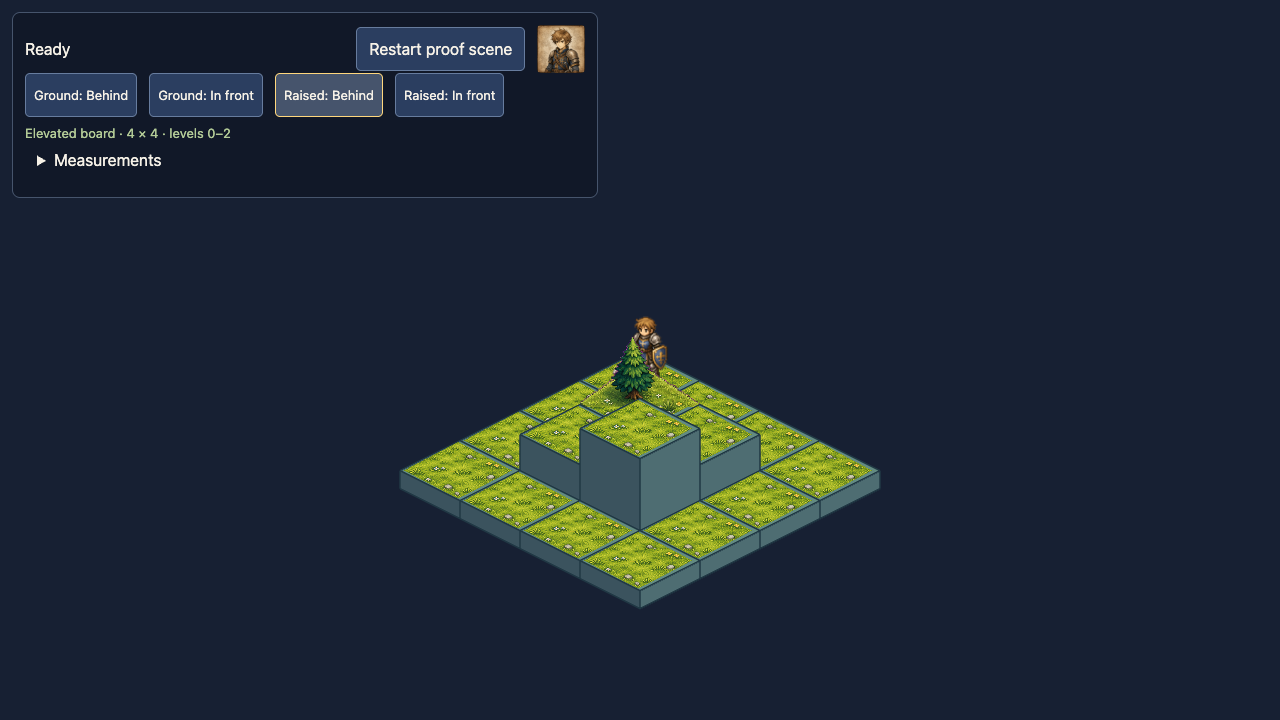
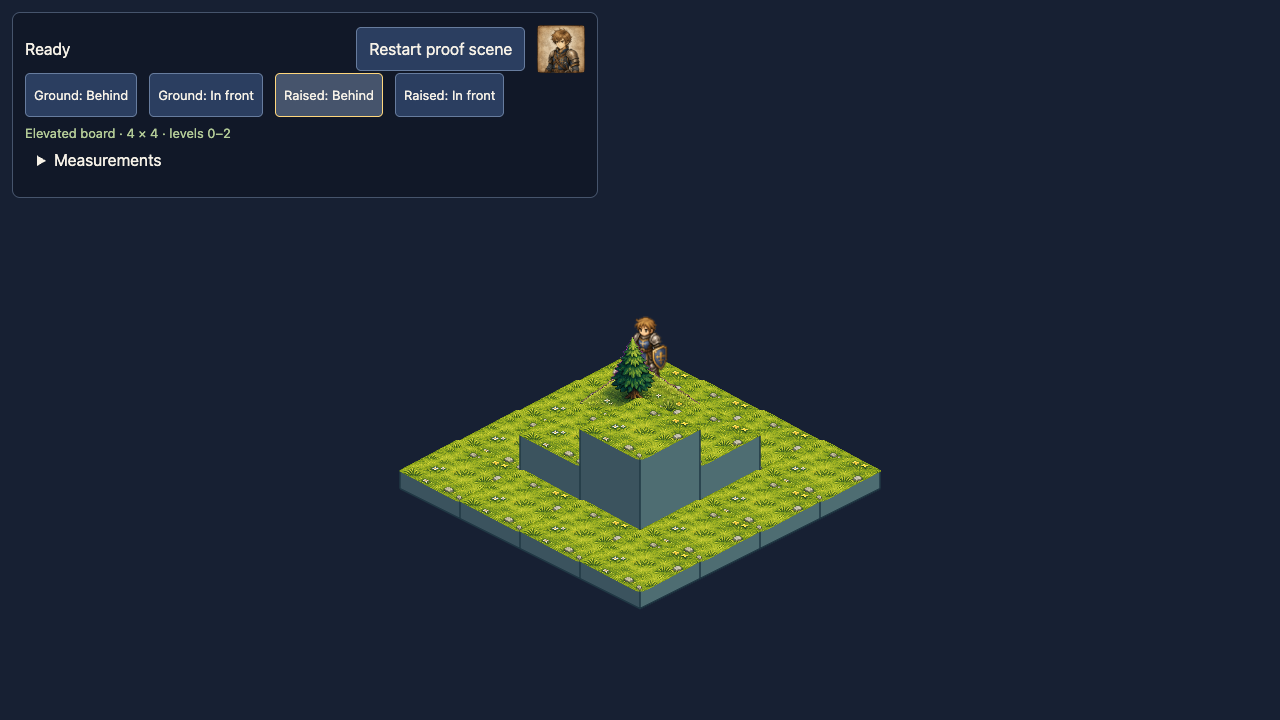
fix: match grass coverage to exact isometric tile ratio

Changed region(s): [[0.3125, 0.4889, 0.6875, 0.825]]

diff --git a/src/phaser/BoardRenderer.ts b/src/phaser/BoardRenderer.ts
@@ -2,7 +2,7 @@ import Phaser from 'phaser';
 import { BOARD_FIXTURE } from '../diagnostics/boardFixture';
 import { PROOF_ASSETS, PROOF_ART, PROOF_FIXTURES, proofDepth, type ProofFixture } from '../diagnostics/proofAssets';
 import { setProofDiagnostics, type BoardDiagnostics } from '../diagnostics/browser';
-import { boardBounds, fitBoard, orderTiles, projectTile, tileFaces, type Point, type Bounds, TILE_WIDTH, TILE_HEIGHT } from '../geometry/iso';
+import { boardBounds, fitBoard, orderTiles, projectTile, tileFaces, type Point, type Bounds, TILE_WIDTH } from '../geometry/iso';
 
 export class BoardRenderer {
   private readonly root: Phaser.GameObjects.Container;
@@ -14,6 +14,7 @@ export class BoardRenderer {
   constructor(scene: Phaser.Scene) {
     this.root = scene.add.container();
     const frame = PROOF_ART.grass.frame;
+    const surfaceScale = (TILE_WIDTH + PROOF_ART.grass.horizontalBleed * 2) / frame.width;
     if (!scene.textures.get('grass').has('surface')) scene.textures.get('grass').add('surface', 0, frame.x, frame.y, frame.width, frame.height);
     const drawFace = (graphics: Phaser.GameObjects.Graphics, points: readonly Point[], color: number): void => {
       const vertices = points.map(point => new Phaser.Math.Vector2(point.x, point.y));
@@ -28,8 +29,9 @@ export class BoardRenderer {
       drawFace(graphics, faces.top, 0x638b82);
       const point = projectTile(tile);
       const grass = scene.add.image(point.x, point.y, 'grass', 'surface')
-        .setOrigin(0.5).setDisplaySize(TILE_WIDTH, TILE_HEIGHT).setDepth(proofDepth(tile, 1));
-      // The edit has a slightly irregular alpha edge; geometry guarantees a tile-sized diamond.
+        .setOrigin(0.5).setScale(surfaceScale)
+        .setDepth(proofDepth(tile, 1));
+      // Uniform scaling plus a small bleed fills the diamond; the mask clips excess coverage.
       const mask = scene.add.graphics().setVisible(false);
       mask.fillStyle(0xffffff).fillPoints(faces.top.map(vertex => new Phaser.Math.Vector2(vertex.x, vertex.y)), true);
       grass.setMask(mask.createGeometryMask());

diff --git a/tests/grass-surface.spec.ts b/tests/grass-surface.spec.ts
@@ -1,0 +1,36 @@
+import { expect, test } from '@playwright/test';
+import { PROOF_ART } from '../src/diagnostics/proofAssets';
+import { TILE_WIDTH, TILE_HEIGHT } from '../src/geometry/iso';
+
+test('grass uses a 2:1 frame and opaque coverage throughout each tile diamond', async ({ page }) => {
+  await page.goto('/');
+  await expect(page.getByRole('status')).toHaveText('Ready');
+  const frame = PROOF_ART.grass.frame;
+  expect.soft(frame.width / frame.height).toBe(TILE_WIDTH / TILE_HEIGHT);
+  const uncovered = await page.evaluate(async ({ frame, width, height, bleed }) => {
+    const image = new Image();
+    image.src = '/proof/grass-surface.png';
+    await image.decode();
+    const canvas = document.createElement('canvas');
+    canvas.width = image.naturalWidth;
+    canvas.height = image.naturalHeight;
+    const context = canvas.getContext('2d', { willReadFrequently: true })!;
+    context.drawImage(image, 0, 0);
+    const pixels = context.getImageData(0, 0, canvas.width, canvas.height).data;
+    // One logical pixel of bleed on either horizontal side; exact geometry clips it.
+    const displayWidth = width + bleed * 2;
+    const displayHeight = displayWidth * height / width;
+    const missing: { x: number; y: number; alpha: number }[] = [];
+    for (let y = -height / 2; y <= height / 2; y++) {
+      for (let x = -width / 2; x <= width / 2; x++) {
+        if (Math.abs(x) / (width / 2) + Math.abs(y) / (height / 2) > 1) continue;
+        const sourceX = Math.round(frame.x + frame.width / 2 + x * frame.width / displayWidth);
+        const sourceY = Math.round(frame.y + frame.height / 2 + y * frame.height / displayHeight);
+        const alpha = pixels[(sourceY * canvas.width + sourceX) * 4 + 3];
+        if (alpha < 250) missing.push({ x, y, alpha });
+      }
+    }
+    return missing;
+  }, { frame, width: TILE_WIDTH, height: TILE_HEIGHT, bleed: PROOF_ART.grass.horizontalBleed });
+  expect(uncovered.length, JSON.stringify(uncovered.slice(0, 5))).toBe(0);
+});

diff --git a/src/diagnostics/proofAssets.ts b/src/diagnostics/proofAssets.ts
@@ -7,7 +7,8 @@ export const PROOF_ASSETS = [
   { key: 'fighter-portrait', url: '/proof/fighter-portrait.png' },
 ] as const;
 export const PROOF_ART = {
-  grass: { frame: { x: 71, y: 20, width: 1687, height: 849 } },
+  // A 2:1 interior frame excludes alpha specks; one-pixel horizontal bleed covers the mask edges.
+  grass: { frame: { x: 130, y: 62, width: 1510, height: 755 }, horizontalBleed: 1 },
   tree: { width: 80, height: 110, originY: 170 / 352 },
   fighter: { width: 40, height: 50, originY: 76 / 80 },
 } as const;

diff --git a/docs/qa/issue-16-assets.md b/docs/qa/issue-16-assets.md
@@ -29,7 +29,7 @@ Fighter sprite first appears in source commit `d71a71d0376f4625d1e06d602f011e5b4
 
 ## Rendering and lifecycle
 
-The 4×4 diagnostic board retains generated side faces and uses a derived transparent grass surface. The renderer selects its alpha bounding frame and scales it to the shared 80×40 top-surface dimensions with a centered anchor. Per-tile diamond geometry masks prevent irregular alpha edges from spilling onto adjacent columns. Tree uses a base anchor and Fighter a foot anchor.
+The 4×4 diagnostic board retains generated side faces and uses a derived transparent grass surface. The renderer excludes noisy alpha bounds and uses a 1510×755 interior crop (exactly 2:1) with a centered anchor. Both image axes use the same scale, yielding 82×41 logical pixels. A one-pixel horizontal bleed is clipped to the shared 80×40 tile diamond. Per-tile diamond geometry masks prevent irregular alpha edges from spilling onto adjacent columns. Tree uses a base anchor and Fighter a foot anchor.
 
 Complete tile columns, surface art and occupants share stable grid-depth slots with the existing sum/y/x ordering. Elevation changes projected position, not depth priority. The fixed fixture buttons show one Fighter and one tree at a time. Ground fixtures use a tree at (2,0), elevation 0; raised fixtures use (1,1), elevation 1. The raised front Fighter stands on the existing elevation-2 tile at (2,2). Ground fixtures have ±28 logical-pixel foot offsets inside their tiles to make canopy overlap visible. They are diagnostic positions, not tactical moves.
 
@@ -42,7 +42,7 @@ Phaser owns the container and its 34 children (16 side/top graphics, 16 grass im
 - RED-first: the two new desktop browser checks failed against the old scene: missing portrait and no controlled asset-load failure. The typed diagnostic contract was added before executing these behavior failures.
 - `npm run test:unit`: all 12 existing geometry/measurement tests passed.
 - `npm run build`: strict TypeScript check and production build passed; existing Phaser bundle-size warning remains.
-- `PLAYWRIGHT_CHROMIUM_EXECUTABLE='/Applications/Google Chrome.app/Contents/MacOS/Google Chrome' npm test`: all 21 checks passed across configured desktop and mobile-emulated portrait/landscape projects. New checks exercise actual fixture buttons, assert asset count/near-far depth/elevation, verify a decoded portrait, repeat restart three times, and abort the Fighter request to verify controlled errors. Existing checks cover complete board bounds, resize, readiness and lifecycle.
+- `PLAYWRIGHT_CHROMIUM_EXECUTABLE='/Applications/Google Chrome.app/Contents/MacOS/Google Chrome' npm test`: all 24 checks passed across configured desktop and mobile-emulated portrait/landscape projects. New checks exercise actual fixture buttons, assert asset count/near-far depth/elevation, verify a decoded portrait, repeat restart three times, and abort the Fighter request to verify controlled errors. Existing checks cover complete board bounds, resize, readiness and lifecycle.
 - `git diff --check`: passed.
 
 Representative screenshots are linked below. Visual review checks grass alignment, readable Fighter/portrait, visible near/far canopy overlap and complete-board framing. Physical iPhone/Android acceptance remains in #20; these Chromium screenshots are supporting evidence.
@@ -59,8 +59,14 @@ Representative screenshots are linked below. Visual review checks grass alignmen
 `public/proof/grass-surface.png` is a built-in ImageGen edit of the original `art/tiles/grass_detailed_N.png`. The original remains byte-identical in `public/proof/grass.png` and in the read-only legacy checkout. The edit removes dirt walls, orange underside and opaque black bands. It has genuine RGBA transparency; inspection found no opaque pure-black pixels. Because ImageGen changes small texture details, this is an edited derivative rather than a pixel-exact crop of the canonical image.
 
 - PNG dimensions: 1774×887; alpha bounds: (71,20) to (1758,869).
-- Renderer frame: x=71, y=20, width=1687, height=849; display: 80×40; origin: center.
+- Renderer frame: x=130, y=62, width=1510, height=755 (2:1); uniform scale: 82/1510; display before clipping: 82×41; masked visible diamond: 80×40; origin: center.
[1 lines of base64/hex data omitted]
 - Bytes: 1,093,498. The larger edited asset is recorded for subsequent loading measurements.
 - Method and final prompt: [grass-surface-prompt.md](issue-16/grass-surface-prompt.md).
 - Visual comparison confirms that the old black bands and detached grass lips are removed. All four fixtures are recaptured below using the new surface.
+
+## Aspect-ratio and coverage correction
+
+The previous alpha bounding frame measured 1687×849 (1.987:1) and included transparent padding and edge specks. Its actual grass diamond did not fill that rectangle, leaving exposed top-face color. The corrected runtime crop is 1510×755 (exactly 2:1) at (130,62), chosen inside the solid grass. Uniform scaling and clipped bleed fill the whole visible diamond without skewing the texture. The PNG bytes remain unchanged.
+
+`tests/grass-surface.spec.ts` first failed against the old mapping on both aspect ratio and uncovered alpha samples. It now asserts exact 2:1 framing and inspects the real decoded PNG alpha at sampled pixel centers throughout the target diamond, including edges and vertices. All sampled points have alpha ≥250. Updated desktop/portrait/landscape screenshots show covered top faces; gray vertical faces are the authored elevation sides.
